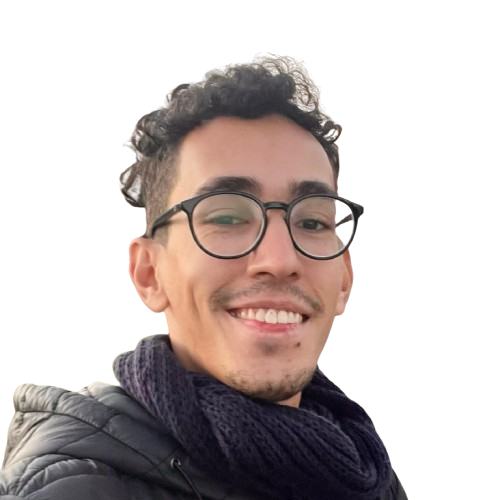
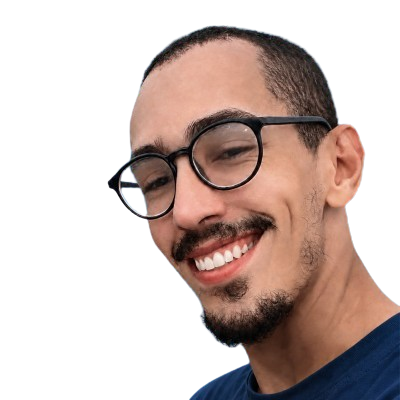
feat: add ExperienceItem component and CMS previews for blog and experiences

diff --git a/src/components/templates/Experiences.tsx b/src/components/templates/Experiences.tsx
@@ -1,15 +1,7 @@
 import React from "react";
-import dayjs from "dayjs";
-import relativeTime from "dayjs/plugin/relativeTime";
-import utc from "dayjs/plugin/utc";
-import "dayjs/locale/pt";
-import "dayjs/locale/es";
 import { LocaleType } from "@/utils/constants";
 import { getExperiences } from "@/cms/experiences";
-import Markdown from "../Markdown";
-
-dayjs.extend(relativeTime);
-dayjs.extend(utc);
+import ExperienceItem from "./ExperienceItem";
 
 const EXPERIENCES_COPY: Record<
   LocaleType,
@@ -18,47 +10,6 @@ const EXPERIENCES_COPY: Record<
   en: { heading: "Experiences", present: "Present" },
   pt: { heading: "Experiências", present: "Atual" },
   es: { heading: "Experiencias", present: "Actual" },
-};
-
-const CANONICAL_SKILL_CASING: Record<string, string> = {
-  typescript: "TypeScript",
-  javascript: "JavaScript",
-  nextjs: "Next.js",
-  "next.js": "Next.js",
-  nodejs: "Node.js",
-  "node.js": "Node.js",
-  reactjs: "React",
-  react: "React",
-  graphql: "GraphQL",
-  postgresql: "PostgreSQL",
-  postgres: "PostgreSQL",
-  mongodb: "MongoDB",
-  tailwindcss: "Tailwind CSS",
-  "tailwind css": "Tailwind CSS",
-  aws: "AWS",
-  gcp: "GCP",
-  ci: "CI",
-  cd: "CD",
-  "ci/cd": "CI/CD",
-  css: "CSS",
-  html: "HTML",
-  sql: "SQL",
-  nosql: "NoSQL",
-  rest: "REST",
-  api: "API",
-  apis: "APIs",
-  docker: "Docker",
-  kubernetes: "Kubernetes",
-  k8s: "Kubernetes",
-  git: "Git",
-  github: "GitHub",
-  sass: "Sass",
-  scss: "SCSS",
-};
-
-const formatSkillLabel = (rawSkill: string): string => {
-  const trimmed = rawSkill.trim();
-  return CANONICAL_SKILL_CASING[trimmed.toLowerCase()] ?? trimmed;
 };
 
 type ExperiencesProps = {
@@ -77,63 +28,12 @@ const Experiences: React.FC<ExperiencesProps> = (props) => {
 
       <div className="space-y-8 mb-10 sm:mb-12">
         {experiences.map((experience, index) => (
-          <div key={index}>
-            <header className="flex">
-              <img
-                className="w-12 h-12 rounded-sm mr-4 shrink-0"
-                src={experience.image}
-                alt={experience.company}
-              />
-
-              <div>
-                <h3 className="text-lg font-semibold leading-snug text-primary-700 dark:text-primary-400 mb-0.5 text-balance">
-                  {experience.jobTitle}
-                </h3>
-                <p className="text-base font-medium leading-snug">
-                  {experience.company}
-                </p>
-                <p className="inline-flex flex-wrap items-center text-sm font-mono tabular-nums leading-normal text-zinc-600 dark:text-zinc-400">
-                  <span>
-                    {dayjs.utc(experience.startDate).format("MM/YYYY")}
-                  </span>
-                  <span className="mx-1">-</span>
-                  <span>
-                    {experience.endDate
-                      ? dayjs.utc(experience.endDate).format("MM/YYYY")
-                      : copy.present}
-                  </span>
-                  <span className="mx-1">·</span>
-                  <span>
-                    {dayjs
-                      .utc(experience.endDate || undefined)
-                      .locale(props.locale)
-                      .to(dayjs.utc(experience.startDate), true)}
-                  </span>
-                </p>
-
-                <p className="text-sm leading-normal text-zinc-600 dark:text-zinc-400">
-                  {experience.location}
-                </p>
-              </div>
-            </header>
-
-            <div className="ml-6 pl-4 sm:pl-10 border-l border-zinc-200 dark:border-zinc-800 pt-2 sm:pt-3">
-              <div className="prose dark:prose-invert max-w-none text-pretty prose-ul:my-0 prose-ul:pl-4 prose-li:my-1 prose-p:my-0">
-                <Markdown>{experience.description}</Markdown>
-              </div>
-
-              <ul className="flex gap-1.5 mt-3 w-full flex-wrap">
-                {experience.skills.split(",").map((skill, index) => (
-                  <li
-                    key={index}
-                    className="px-2.5 py-0.5 rounded-full text-xs font-mono font-medium bg-zinc-100 text-zinc-700 dark:bg-zinc-800 dark:text-zinc-300"
-                  >
-                    {formatSkillLabel(skill)}
-                  </li>
-                ))}
-              </ul>
-            </div>
-          </div>
+          <ExperienceItem
+            key={index}
+            experience={experience}
+            locale={props.locale}
+            presentLabel={copy.present}
+          />
         ))}
       </div>
     </section>

diff --git a/src/components/templates/ExperienceItem.tsx b/src/components/templates/ExperienceItem.tsx
@@ -1,0 +1,143 @@
+import React from "react";
+import dayjs from "dayjs";
+import relativeTime from "dayjs/plugin/relativeTime";
+import utc from "dayjs/plugin/utc";
+import "dayjs/locale/pt";
+import "dayjs/locale/es";
+import { LocaleType } from "@/utils/constants";
+import Markdown from "../Markdown";
+
+dayjs.extend(relativeTime);
+dayjs.extend(utc);
+
+const CANONICAL_SKILL_CASING: Record<string, string> = {
+  typescript: "TypeScript",
+  javascript: "JavaScript",
+  nextjs: "Next.js",
+  "next.js": "Next.js",
+  nodejs: "Node.js",
+  "node.js": "Node.js",
+  reactjs: "React",
+  react: "React",
+  graphql: "GraphQL",
+  postgresql: "PostgreSQL",
+  postgres: "PostgreSQL",
+  mongodb: "MongoDB",
+  tailwindcss: "Tailwind CSS",
+  "tailwind css": "Tailwind CSS",
+  aws: "AWS",
+  gcp: "GCP",
+  ci: "CI",
+  cd: "CD",
+  "ci/cd": "CI/CD",
+  css: "CSS",
+  html: "HTML",
+  sql: "SQL",
+  nosql: "NoSQL",
+  rest: "REST",
+  api: "API",
+  apis: "APIs",
+  docker: "Docker",
+  kubernetes: "Kubernetes",
+  k8s: "Kubernetes",
+  git: "Git",
+  github: "GitHub",
+  sass: "Sass",
+  scss: "SCSS",
+};
+
+const formatSkillLabel = (rawSkill: string): string => {
+  const trimmed = rawSkill.trim();
+  return CANONICAL_SKILL_CASING[trimmed.toLowerCase()] ?? trimmed;
+};
+
+export type ExperienceItemData = {
+  jobTitle: string;
+  company: string;
+  location: string;
+  image: string;
+  startDate: string;
+  endDate?: string;
+  description: string;
+  skills: string;
+};
+
+type ExperienceItemProps = {
+  experience: ExperienceItemData;
+  locale: LocaleType;
+  presentLabel?: string;
+};
+
+const ExperienceItem: React.FC<ExperienceItemProps> = ({
+  experience,
+  locale,
+  presentLabel = "Present",
+}) => {
+  const skills = experience.skills
+    ? experience.skills.split(",").filter((s) => s.trim().length > 0)
+    : [];
+
+  return (
+    <div>
+      <header className="flex">
+        {experience.image && (
+          <img
+            className="w-12 h-12 rounded-sm mr-4 shrink-0"
+            src={experience.image}
+            alt={experience.company}
+          />
+        )}
+
+        <div>
+          <h3 className="text-lg font-semibold leading-snug text-primary-700 dark:text-primary-400 mb-0.5 text-balance">
+            {experience.jobTitle}
+          </h3>
+          <p className="text-base font-medium leading-snug">
+            {experience.company}
+          </p>
+          <p className="inline-flex flex-wrap items-center text-sm font-mono tabular-nums leading-normal text-zinc-600 dark:text-zinc-400">
+            <span>{dayjs.utc(experience.startDate).format("MM/YYYY")}</span>
+            <span className="mx-1">-</span>
+            <span>
+              {experience.endDate
+                ? dayjs.utc(experience.endDate).format("MM/YYYY")
+                : presentLabel}
+            </span>
+            <span className="mx-1">·</span>
+            <span>
+              {dayjs
+                .utc(experience.endDate || undefined)
+                .locale(locale)
+                .to(dayjs.utc(experience.startDate), true)}
+            </span>
+          </p>
+
+          <p className="text-sm leading-normal text-zinc-600 dark:text-zinc-400">
+            {experience.location}
+          </p>
+        </div>
+      </header>
+
+      <div className="ml-6 pl-4 sm:pl-10 border-l border-zinc-200 dark:border-zinc-800 pt-2 sm:pt-3">
+        <div className="prose dark:prose-invert max-w-none text-pretty prose-ul:my-0 prose-ul:pl-4 prose-li:my-1 prose-p:my-0">
+          <Markdown>{experience.description}</Markdown>
+        </div>
+
+        {skills.length > 0 && (
+          <ul className="flex gap-1.5 mt-3 w-full flex-wrap">
+            {skills.map((skill, index) => (
+              <li
+                key={index}
+                className="px-2.5 py-0.5 rounded-full text-xs font-mono font-medium bg-zinc-100 text-zinc-700 dark:bg-zinc-800 dark:text-zinc-300"
+              >
+                {formatSkillLabel(skill)}
+              </li>
+            ))}
+          </ul>
+        )}
+      </div>
+    </div>
+  );
+};
+
+export default ExperienceItem;

diff --git a/src/app/admin/page.tsx b/src/app/admin/page.tsx
@@ -2,6 +2,95 @@
 
 import React from "react";
 import Script from "next/script";
+import dayjs from "dayjs";
+import { DM_Sans, JetBrains_Mono } from "next/font/google";
+import Markdown from "@/components/Markdown";
+import ExperienceItem from "@/components/templates/ExperienceItem";
+import { readingTime } from "@/utils/readingTime";
+import "@/styles/globals.css";
+
+const dmSans = DM_Sans({
+  subsets: ["latin"],
+  variable: "--font-dm-sans",
+  display: "swap",
+});
+
+const jetbrainsMono = JetBrains_Mono({
+  subsets: ["latin"],
+  variable: "--font-jetbrains-mono",
+  display: "swap",
+});
+
+type PreviewProps = {
+  entry: {
+    getIn: (path: string[]) => string | undefined;
+  };
+  getAsset: (path: string) => { toString: () => string } | undefined;
+};
+
+const BlogPostPreview: React.FC<PreviewProps> = ({ entry, getAsset }) => {
+  const title = entry.getIn(["data", "title"]) || "";
+  const thumbnail = entry.getIn(["data", "thumbnail"]);
+  const date = entry.getIn(["data", "date"]);
+  const body = entry.getIn(["data", "body"]) || "";
+
+  const thumbnailUrl = thumbnail ? getAsset(thumbnail)?.toString() : "";
+  const formattedDate = dayjs(date || undefined).format("MMMM D, YYYY");
+  const readTime = readingTime(body, "en");
+
+  return (
+    <div
+      className={`${dmSans.variable} ${jetbrainsMono.variable} dark font-sans antialiased bg-zinc-50 text-zinc-900 dark:bg-zinc-900 dark:text-zinc-100 min-h-screen`}
+    >
+      <div className="max-w-4xl mx-auto px-4 pb-10 prose dark:prose-invert lg:prose-lg">
+        <header className="mb-8">
+          {thumbnailUrl && (
+            <img
+              className="!-mt-2 !mb-16 w-full object-cover rounded-b-3xl aspect-video"
+              src={thumbnailUrl}
+              alt=""
+            />
+          )}
+
+          <h1 className="text-4xl font-bold mt-10">{title}</h1>
+
+          <p className="text-zinc-800 dark:text-zinc-400">
+            {formattedDate} ◦ {readTime}
+          </p>
+        </header>
+
+        <Markdown>{body}</Markdown>
+      </div>
+    </div>
+  );
+};
+
+const ExperiencePreview: React.FC<PreviewProps> = ({ entry, getAsset }) => {
+  const image = entry.getIn(["data", "image"]);
+  const imageUrl = image ? getAsset(image)?.toString() || "" : "";
+
+  return (
+    <div
+      className={`${dmSans.variable} ${jetbrainsMono.variable} dark font-sans antialiased bg-zinc-50 text-zinc-900 dark:bg-zinc-900 dark:text-zinc-100 min-h-screen p-6`}
+    >
+      <div className="max-w-4xl mx-auto">
+        <ExperienceItem
+          locale="en"
+          experience={{
+            jobTitle: entry.getIn(["data", "jobTitle"]) || "",
+            company: entry.getIn(["data", "company"]) || "",
+            location: entry.getIn(["data", "location"]) || "",
+            image: imageUrl,
+            startDate: entry.getIn(["data", "startDate"]) || "",
+            endDate: entry.getIn(["data", "endDate"]) || undefined,
+            description: entry.getIn(["data", "description"]) || "",
+            skills: entry.getIn(["data", "skills"]) || "",
+          }}
+        />
+      </div>
+    </div>
+  );
+};
 
 const Page = () => {
   return (
@@ -9,7 +98,22 @@ const Page = () => {
       <Script
         src="https://unpkg.com/decap-cms@^3.0.0/dist/decap-cms.js"
         onLoad={() => {
-          window.CMS.registerPreviewStyle("/admin/styles.css");
+          document
+            .querySelectorAll<HTMLLinkElement>('link[rel="stylesheet"]')
+            .forEach((link) => {
+              if (link.href) {
+                window.CMS.registerPreviewStyle(link.href);
+              }
+            });
+
+          document.querySelectorAll("style").forEach((style) => {
+            if (style.textContent) {
+              window.CMS.registerPreviewStyle(style.textContent, { raw: true });
+            }
+          });
+
+          window.CMS.registerPreviewTemplate("blog", BlogPostPreview);
+          window.CMS.registerPreviewTemplate("experiences", ExperiencePreview);
         }}
       />
     </div>
